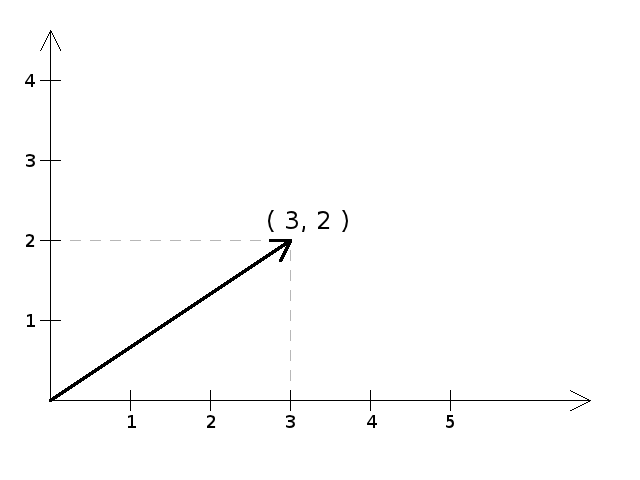
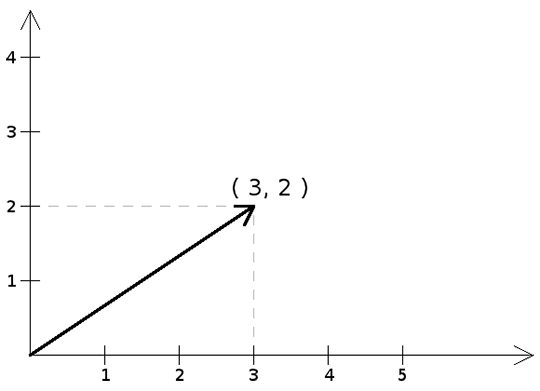
Drobne poprawki w Algebra-8.

Changed region(s): [[0.0, 0.0307, 1.0, 0.9821]]

diff --git a/content/algebra/wyklad-08.md b/content/algebra/wyklad-08.md
@@ -43,7 +43,7 @@ Wówczas $$( K^n, +, \alpha \cdot )_{\alpha \in K } $$ jest przestrzenią liniow
 **Interpretacja geometryczna:**  
 Elementy $$K^n$$ to punkty w przestrzenie $$K^n$$ lub wektory o początku w punkcie $$(0,0,\ldots,0)$$.  
 Np weźmy: $$K = \mathbb{R},\ n=2 \leadsto \mathbb{R}^2 $$:  
-	_Tu ma być wykres_  
+	![Wykres](/images/Wykres1.png)
 **Dwie uwagi co do $$R^2:$$**  
 1) $$+$$ w $$R^2$$ to "znane" (prawdopodobnie) dodawanie wektorów  
 2) $$\cdot$$ w $$R^2$$ to "znane" mnożenie wektora przez skalar  
